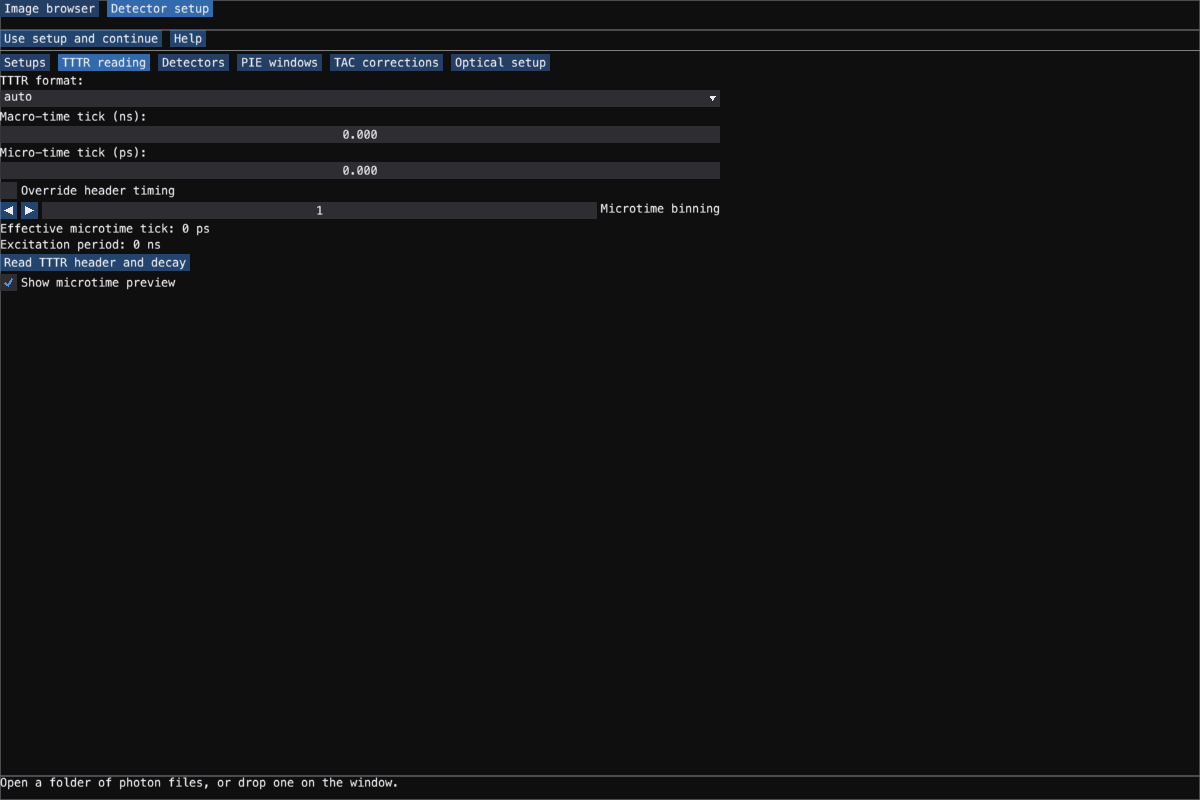
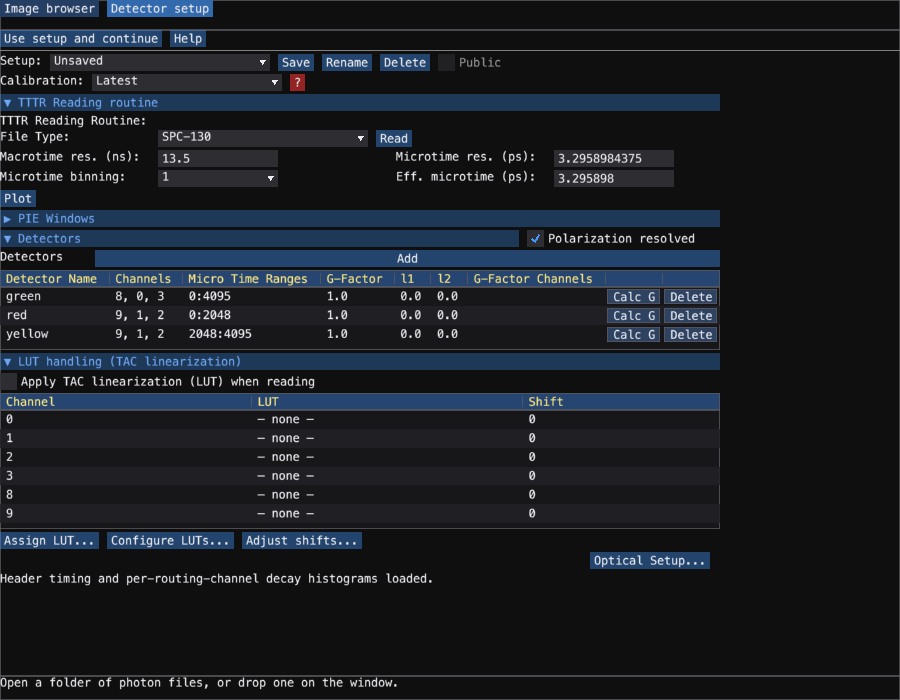
channel editor docs: guide 87, guides 86 and 37 and their figures from the one-page editor
New guide 87 (the page, typing into a table, steps, Python), figures regenerated from the emtk editor by docs/guides/screenshots/channel_editor_emtk.py
(image_browser_setup, lut_channel_box, channel_definition_page and _plot), guide index, figure register and plugin reference updated; the Qt grab of
lut_channel_box.png is removed from make_screenshots.py so it no longer overwrites the new figure.

Changed region(s): [[0.0, 0.0, 1.0, 0.84], [0.0, 0.96, 1.0, 0.99], [0.6533, 0.78, 0.8089, 0.81]]

diff --git a/docs/guides/screenshots/channel_editor_emtk.py b/docs/guides/screenshots/channel_editor_emtk.py
@@ -1,0 +1,92 @@
+"""Figures of the detector setup / channel definition editor (the one-page emtk editor) for the guides.
+
+Usage (repository root, ``QT_QPA_PLATFORM=offscreen``, ``PYTHONPATH`` with the repository and emtk)::
+
+    python docs/guides/screenshots/channel_editor_emtk.py
+
+Writes into ``docs/guides/figures``: ``channel_definition_page.png`` (guide 87), ``channel_definition_plot.png`` (guide 87),
+``lut_channel_box.png`` (guide 37) and ``image_browser_setup.png`` (guide 86). Settings, setups file and MMFDB are temporary; the
+measurement is the BH SPC-132 test file.
+"""
+import os
+import shutil
+import sys
+import tempfile
+from pathlib import Path
+
+REPO = Path(__file__).resolve().parents[3]
+FIG = REPO / "docs" / "guides" / "figures"
+tmp = Path(tempfile.mkdtemp(prefix="guide_ce_"))
+os.environ["CHISURF_SETTINGS_DIR"] = str(tmp / "s")
+os.environ["MMFDB_SETTINGS_DIR"] = str(tmp / "m")
+os.environ["MMFDB_DATABASE_PATH"] = str(tmp / "m" / "db.sqlite")
+(tmp / "s").mkdir()
+(tmp / "m").mkdir()
+sample = tmp / "BH_SPC132.spc"
+shutil.copy(REPO / "test" / "data" / "tttr" / "BH" / "132" / "BH_SPC132.spc", sample)
+sys.path.insert(0, str(REPO))
+os.chdir(REPO)
+
+from emtk.testing import RecordingPainter  # noqa: E402
+
+from test.gui.emtk_port_parity import emtk_screenshot  # noqa: E402
+
+from chisurf.plugins.core.setup_channel_definition.gui.app import make_app  # noqa: E402
+from chisurf.plugins.core.setup_channel_definition.test import driver  # noqa: E402
+
+SETUP = {
+    "windows": {"prompt": [0, 2048], "delayed": [2048, 4095]},
+    "detectors": {
+        "green": {"chs": [8, 0, 3], "micro_time_ranges": [[0, 4095]], "g_factor": 1.0, "l1": 0.0, "l2": 0.0},
+        "red": {"chs": [9, 1, 2], "micro_time_ranges": [[0, 2048]], "g_factor": 1.0, "l1": 0.0, "l2": 0.0},
+        "yellow": {"chs": [9, 1, 2], "micro_time_ranges": [[2048, 4095]], "g_factor": 1.0, "l1": 0.0, "l2": 0.0},
+    },
+    "tttr_reading": {"file_type": "SPC-130", "macro_time_resolution": 13.5, "micro_time_resolution": 3.3, "micro_time_binning": 1},
+}
+
+
+def shot(app, name, size):
+    app.pointer_move(-20.0, -20.0)
+    for _ in range(4):
+        app.draw(RecordingPainter(), 0.0, 0.0, *size)
+    emtk_screenshot(app, FIG / name, size)
+    print("wrote", name)
+
+
+app = make_app(settings=SETUP, file_path=str(tmp / "setups.json"))
+driver.settle(app, (1200, 800))
+driver.populate(app, sample)
+shot(app, "channel_definition_page.png", (1000, 640))
+app.page.preview_window.show()
+shot(app, "channel_definition_plot.png", (1000, 640))
+app.page.preview_window.hide()
+app.close()
+
+# the LUT handling box with a LUT assigned to channel 0 and a shift on channel 8
+import numpy as np  # noqa: E402
+
+lut = dict(SETUP, apply_lut=True, channel_luts={"0": np.linspace(0, 4096, 4096).tolist()}, channel_shifts={"8": 3},
+           channel_lut_sources={"0": "uniform.spc"})
+app = make_app(settings=lut, file_path=str(tmp / "lut_setups.json"))
+app.page.open_sections.update(reading=False, windows=False, detectors=True, lut=True)
+shot(app, "lut_channel_box.png", (800, 560))
+app.close()
+
+# the Detector setup page of the image browser: the same editor in the 720 px column
+from chisurf.plugins.tttr.tttr_image_browser.gui.app import make_app as image_browser  # noqa: E402
+
+browser = image_browser()
+for _ in range(3):
+    browser.draw(RecordingPainter(), 0.0, 0.0, 900.0, 700.0)
+p = RecordingPainter()
+browser.draw(p, 0.0, 0.0, 900.0, 700.0)
+x, y, w, h = next(t[:4] for t in p.texts if t[5] == "Detector setup")
+browser.pointer_move(x + w / 2, y + h / 2)
+browser.draw(RecordingPainter(), 0.0, 0.0, 900.0, 700.0)
+browser.pointer_press(x + w / 2, y + h / 2, 1)
+browser.draw(RecordingPainter(), 0.0, 0.0, 900.0, 700.0)
+browser.pointer_release(x + w / 2, y + h / 2, 1)
+browser.editor.load_definition(SETUP)
+driver.finish_read(type("A", (), {"page": browser.editor})()) if browser.editor.read(str(sample)) is None else None
+shot(browser, "image_browser_setup.png", (900, 700))
+browser.close()

diff --git a/docs/guides/make_screenshots.py b/docs/guides/make_screenshots.py
@@ -2451,34 +2451,8 @@ def main():
     tool.dock_area.setCurrentWidget(tool.tac_panel)
     _grab(tool, "lut_tools_workspace.png")
 
-    # Channel-definition editor with the LUT-handling box.
-    from chisurf.gui.widgets.wizard.tttr_channeldefinition.tttr_channel_definition import (
-        DetectorWizardPage,
-    )
-
-    data = {
-        "windows": {"prompt": [0, 2048]},
-        "detectors": {"green": {"chs": [0, 8]}, "red": {"chs": [1, 9]}},
-        "tttr_reading": {
-            "file_type": "SPC-130",
-            "macro_time_resolution": 1.0,
-            "micro_time_resolution": 0.032,
-            "micro_time_binning": 1,
-        },
-        "apply_lut": True,
-        "channel_luts": {"0": np.linspace(0, 4096, 4096).tolist()},
-        "channel_shifts": {"8": 3},
-        "channel_lut_sources": {"0": "uniform.spc"},
-    }
-    with tempfile.NamedTemporaryFile("w", suffix=".json", delete=False) as fh:
-        json.dump(data, fh)
-        setup_json = fh.name
-    page = DetectorWizardPage(json_file=setup_json, show_setup_selection=False)
-    page.resize(680, 900)
-    for box in (page._box_reading, page._box_windows, page._box_detectors, page._box_lut):
-        box.set_expanded(box is page._box_detectors or box is page._box_lut)
-    _grab(page, "lut_channel_box.png")
-    os.unlink(setup_json)
+    # The channel-definition editor (LUT handling section, lut_channel_box.png) is the one-page emtk editor:
+    # docs/guides/screenshots/channel_editor_emtk.py draws it.
 
     print("screenshots written to", FIG)
 

diff --git a/docs/guides/87_channel_definition.md b/docs/guides/87_channel_definition.md
@@ -1,0 +1,73 @@
+# Detector setup: channels, PIE windows, timing and LUTs
+
+**Tool:** *Setup → Channel Definition* (`setup_channel_definition`); the same editor is embedded in the
+[image browser](86_image_browser.md), the burst tools, the count-rate and trace tools and the onboarding wizard.
+
+Every analysis of photon streams has to know which **routing channel** is which **detector**, which part of the
+micro-time axis is the **excitation window** (PIE window), how a file is **read** (container format, macro- and
+micro-time tick) and whether a **TAC linearization table (LUT)** has to be applied. A **setup** stores all of it under one
+name, so a tool only has to be told which setup to use. Micro-time ranges are in **raw micro-time channels** of the file
+(not divided by the binning): a range `0:256` on data that spans `0:4095` selects almost no photons.
+
+## 1. The page
+
+```{figure} figures/channel_definition_page.png
+:name: fig-channel-definition-page
+:width: 100%
+
+The editor with a BH SPC-132 measurement read: Setup row, TTTR Reading routine, Detectors (PIE Windows is folded), LUT handling and Optical Setup....
+```
+
+One page, four folding sections (click a header to fold it; which are open is remembered):
+
+| Where | Control | What it does |
+|---|---|---|
+| Setup row | **Setup**, **Save**, **Rename**, **Delete** | Choose a saved setup (the one used last opens at start); Save, Rename and Delete ask in a small prompt. |
+| | **Public** | Make the saved setup visible to all users of the MMFDB with the next Save; only its owner can. |
+| | **Calibration** | Apply a stored G/l1/l2 snapshot of the selected setup to the detectors; *Latest* leaves them. |
+| | **?** (red) | Explains the page. |
+| TTTR Reading routine | **File Type** | *Auto* or a container (PTU, HT3, SPC-130, SPC-600, PHOTON-HDF5, CZ-RAW, SM, PHOTONS, SPC-QC, BRIGHTEYES-TTR, FLIMLABS, PTO). |
+| | **Read** | Take the macro and micro time from a measurement and the decay of every routing channel. |
+| | **Macrotime res. (ns)**, **Microtime res. (ps)**, **Microtime binning**, **Eff. microtime (ps)** | Type numbers; the effective tick is read-only. |
+| | **Plot** | The decay of each routing channel with the PIE windows and detector gates; drag a line to move a range. |
+| PIE Windows | table, **Add** | Window name, start, end; **Delete** removes a row. |
+| Detectors | table, **Add**, **Polarization resolved** | Name, routing channels, micro-time ranges, G factor, l1, l2, G-factor channels; **Calc G** calculates the G factor from the read decays, **Delete** removes the detector. |
+| LUT handling | **Apply TAC linearization (LUT) when reading** | Switch the linearization on for every read (adding a LUT switches it on). |
+| | table, **Assign LUT...**, **Configure LUTs...**, **Adjust shifts...** | A LUT file and a micro-time shift per routing channel. |
+| bottom right | **Optical Setup...** | The light-path editor: lasers, filters, fluorophores, detectors. |
+
+## 2. Typing into a table
+
+Double-click a cell, type, and press **Enter** (or click elsewhere) to commit it; Escape cancels. Ranges are `start:end`
+(`0:4095`), several separated by `,` or `;` (`0:10;20:30`); a reversed range (`20:10`) is swapped and a single number
+`5` is the range `5:5`. Channels are integers separated by commas. An empty G factor is 1.0; text that is not a number
+keeps the old value and says so in the status line.
+
+```{figure} figures/channel_definition_plot.png
+:name: fig-channel-definition-plot
+:width: 100%
+
+**Plot** opens the micro-time decay of the routing channels; the vertical lines are the PIE windows and detector gates and can be dragged.
+```
+
+## 3. Steps
+
+1. Press **Read** and choose a measurement of your instrument; the timing and the decays appear.
+2. Edit the **Detectors** (and, if the setup uses them, the **PIE Windows**) until **Plot** shows the gates on the
+   intended part of the decay.
+3. For SPC data with differential non-linearity, assign or compute a **LUT** per channel
+   ([guide 37](37_tttr_microtime_lut.md)) and tick **Apply TAC linearization (LUT) when reading**.
+4. **Save**, give the setup a name. Every tool that offers a **Setup** choice lists it.
+
+A drop works too: drop a measurement on the window to read it, a `.json` file to switch to that setups library.
+
+## 4. From Python
+
+```python
+from chisurf.core.setup_channel_definition import ChannelDefinition
+
+setup = ChannelDefinition(file_path="my_setups.json")
+setup.refresh_setups()
+setup.select_setup("ALEX Suite (auto)")
+settings = setup.get_settings()          # detectors, windows, tttr_reading, LUTs, optical setup
+```

diff --git a/docs/reference/figures.md b/docs/reference/figures.md
@@ -87,7 +87,7 @@ entry there is marked **unrecorded** below, and that is the worklist.
 | 64 | `guides/figures/combining_repeats.png` | Combining technical repeats. | docs/guides/make_figures.py::fig_combining_repeats | [docs/guides/35_combining_repeats.md](/guides/35_combining_repeats.md) |
 | 65 | `guides/figures/multispot.png` | 8-spot multispot smFRET. | docs/guides/make_figures.py::fig_multispot | [docs/guides/36_multispot.md](/guides/36_multispot.md) |
 | 66 | `guides/figures/lut.png` | DNL and its LUT correction. | docs/guides/make_figures.py::fig_lut | [docs/guides/37_tttr_microtime_lut.md](/guides/37_tttr_microtime_lut.md) |
-| 67 | `guides/figures/lut_channel_box.png` | The LUT-handling box in the channel-definition editor. | docs/guides/make_screenshots.py::main | [docs/guides/37_tttr_microtime_lut.md](/guides/37_tttr_microtime_lut.md) |
+| 67 | `guides/figures/lut_channel_box.png` | The LUT handling section of the channel-definition editor: channel 0 has an assigned LUT, channel 8 a shift of 3 bins, and the gate is on. | docs/guides/screenshots/channel_editor_emtk.py | [docs/guides/37_tttr_microtime_lut.md](/guides/37_tttr_microtime_lut.md) |
 | 68 | `guides/figures/lut_tools_workspace.png` | ① Compute LUT — per-channel: routing-channel selector, draggable linear region on the raw TAC histogram, corrected preview below. | docs/guides/make_screenshots.py::main | [docs/guides/37_tttr_microtime_lut.md](/guides/37_tttr_microtime_lut.md) |
 | 69 | `guides/figures/coloc_object_distances.png` | Nearest-neighbour distances in both directions. The spike near 1 px are the real partners; the flat tail is what chance looks like. | docs/guides/make_screenshots.py::_grab_coloc_objects | [docs/guides/38_colocalization.md](/guides/38_colocalization.md) |
 | 70 | `guides/figures/coloc_objects.png` | Segmented objects of both channels: 1 = channel A only, 2 = channel B only, 3 = both. Coincidence is read straight off the map. | docs/guides/make_screenshots.py::_grab_coloc_objects | [docs/guides/38_colocalization.md](/guides/38_colocalization.md) |

diff --git a/docs/guides/37_tttr_microtime_lut.md b/docs/guides/37_tttr_microtime_lut.md
@@ -26,9 +26,14 @@ then apply automatically at read time.
 
 ### Compute a LUT per channel and add it to the setup
 
-In the **Channel Definition** editor, the **LUT handling** box has a
-**Configure LUTs…** button that opens **LUT Tools**. The **① Compute LUT** tab is
-the tool you use; tab ② (settings.tttr.json) is optional file interchange.
+In the **Channel Definition** editor ([guide 87](87_channel_definition.md)), the
+**LUT handling (TAC linearization)** section lists every routing channel with its LUT
+and micro-time shift. **Assign LUT…** assigns a LUT file to the selected row;
+**Configure LUTs…** opens the LUT tools window of the editor (compute from the
+read calibration decay with a linear region or automatically, assign, export, remove
+for one channel); **Adjust shifts…** aligns the channels on the decay. The standalone
+**LUT Tools** plugin below does the same on its own, with the **① Compute LUT** tab
+as the tool you use; tab ② (settings.tttr.json) is optional file interchange.
 
 Load one or more TTTR files of a **uniform-illumination** (uncorrelated-light /
 scatter) measurement — light that *should* produce a flat TAC histogram. Because
@@ -47,7 +52,7 @@ optional.
 
 ### It lands in the detector setup
 
-Back in the editor, the **LUT handling** box now lists the per-channel LUT you
+Back in the editor, the **LUT handling** section now lists the per-channel LUT you
 added. Tick **Apply TAC linearization (LUT) when reading** and the correction is
 applied to every read of that setup — hover a LUT to see its plot.
 
@@ -55,7 +60,7 @@ applied to every read of that setup — hover a LUT to see its plot.
 :name: fig-lut-channel-box
 :width: 90%
 
-The LUT-handling box in the channel-definition editor.
+The LUT handling section of the channel-definition editor: channel 0 has an assigned LUT (named by its file), channel 8 a shift of 3 bins, and the gate is on.
 ```
 
 From then on, any reader that selects the setup linearizes photons at read time

diff --git a/docs/guides/86_image_browser.md b/docs/guides/86_image_browser.md
@@ -43,17 +43,17 @@ above the image; the histogram on the right is the display levels.
 The tiles follow the detector setup. Without one the browser lists every
 supported file type and draws **one tile with all channels** (the file is
 shown, nothing is gated). To define detectors, open the **Detector setup** tab:
-it is the same editor as in *Setup / Channel Definition*: routing channels,
-micro-time windows (PIE windows), the reading routine (**TTTR format**), TAC
-corrections and the optical setup. Press **Use setup and continue** to use the
-settings; the file list then shows only the file types the setup reads (a setup
-that reads **HT3** lists no PTU file).
+it is the same one-page editor as in *Setup / Channel Definition* ([guide 87](87_channel_definition.md)):
+the Setup row, the **TTTR Reading routine** (**File Type**, timing, binning), the
+**PIE Windows** and **Detectors** tables, **LUT handling** and **Optical Setup...**.
+Press **Use setup and continue** to use the settings; the file list then shows only
+the file types the setup reads (a setup that reads **HT3** lists no PTU file).
 
 ```{figure} figures/image_browser_setup.png
 :name: fig-image-browser-setup
 :width: 100%
 
-The **TTTR reading** tab of the shared setup editor on the Detector setup page.
+The shared setup editor on the Detector setup page: the Setup row, the reading routine, the detector table and the LUT handling, in one page (read with a BH SPC-132 measurement).
 ```
 
 A detector with routing channels `0, 1` and the micro-time range `0:4095`

diff --git a/docs/guides/index.md b/docs/guides/index.md
@@ -124,6 +124,7 @@ irf_estimation
 77_phasor_calculator
 84_spot_finder
 86_image_browser
+87_channel_definition
 45_scan_precision
 55_pair_correlation
 ```
@@ -251,6 +252,7 @@ irf_estimation
 | [Finding spots and objects in an image](84_spot_finder.md) | `spot_finder` (Image Tools hub), `csc spot-finder`, `spot_finder.core.spots` |
 | [Checking a burst folder before an MFD fit](85_mfd_prepare.md) | `mfd_prepare` (no menu; CLI/RPC), `core.fluorescence.mfd.prepare` |
 | [Browsing a folder of scan images](86_image_browser.md) | `tttr_image_browser` (Imaging → Tools; Imaging Tools hub), `tttr-image-browser`, `core.image` |
+| [Detector setup: channels, PIE windows, timing and LUTs](87_channel_definition.md) | `setup_channel_definition` (Setup → Channel Definition), the shared detector setup editor |
 
 ## Regenerating the figures
 

diff --git a/docs/reference/plugins/setup_channel_definition.md b/docs/reference/plugins/setup_channel_definition.md
@@ -21,7 +21,7 @@ Detector Channel and PIE-window definition wizard
 | Menu path | Setup → **Channel Definition** |
 | Categories | Setup |
 | Version | 1.0.0 |
-| Surfaces | gui |
+| Surfaces | emtk, gui |
 
 ## Parameters
 
@@ -31,3 +31,8 @@ This plugin builds its interface from custom Qt widgets (no declarative `*.view.
 
 - Plugin package: `chisurf/plugins/core/setup_channel_definition/`
 - Manifest: {src}`chisurf/plugins/core/setup_channel_definition/manifest.json`
+
+## Theory and workflow
+
+- **Workflow** — [Detector setup: channels, PIE windows, timing and LUTs](/guides/87_channel_definition.md)
+- **Workflow** — [TTTR micro-time LUT](/guides/37_tttr_microtime_lut.md)
